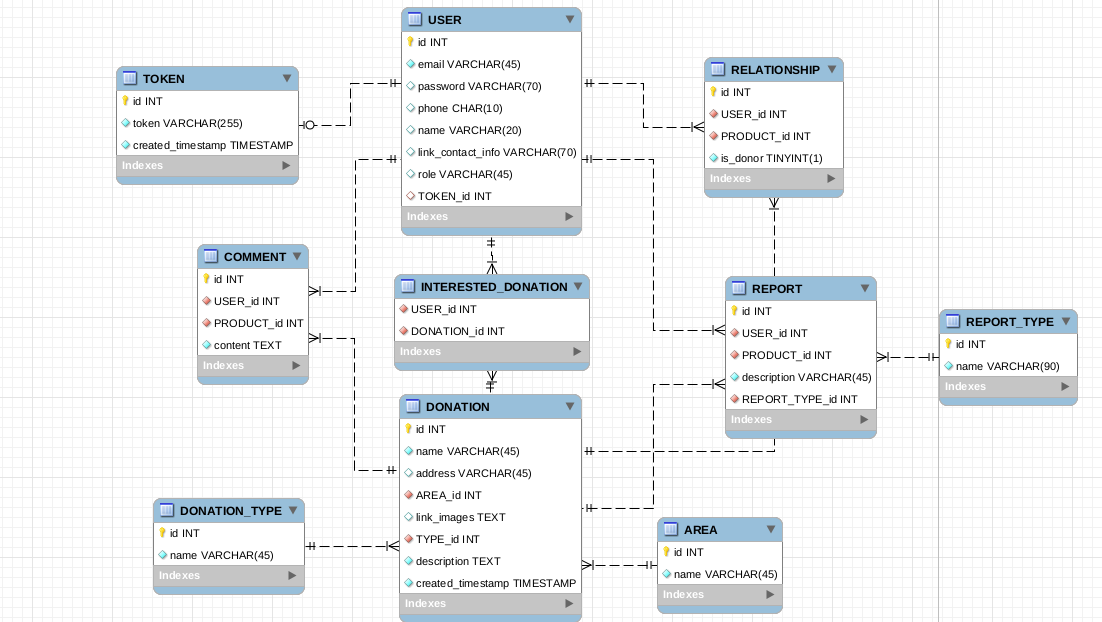
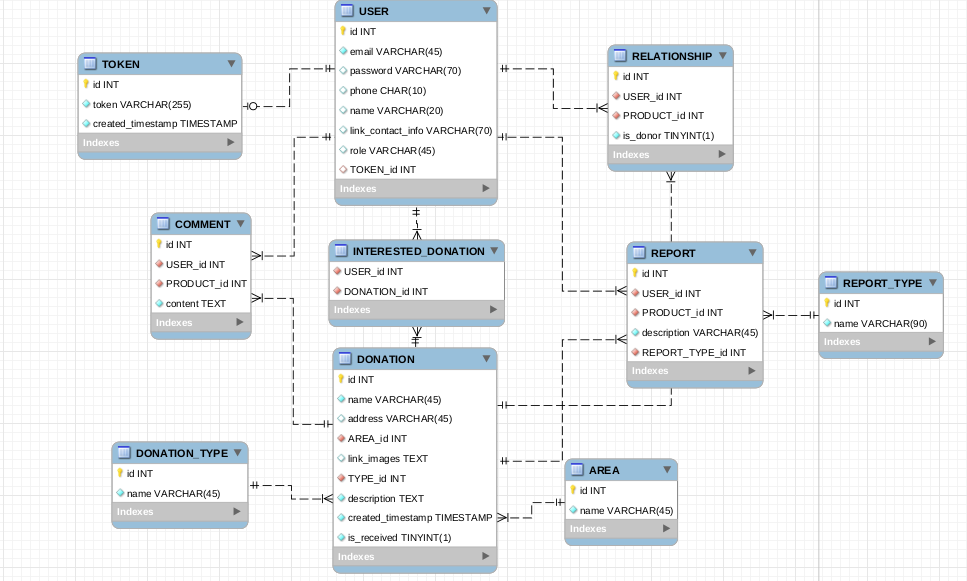
update DB

diff --git a/src/main/java/fpt/se1601/giveandget/reponsitory/entity/DonationEntity.java b/src/main/java/fpt/se1601/giveandget/reponsitory/entity/DonationEntity.java
@@ -1,6 +1,7 @@
 package fpt.se1601.giveandget.reponsitory.entity;
 
 import lombok.*;
+import org.hibernate.annotations.Type;
 
 import javax.persistence.*;
 import java.sql.Timestamp;
@@ -34,8 +35,11 @@ public class DonationEntity {
     private String description;
     @Column(name = "created_timestamp")
     private Timestamp timestamp;
-    @OneToMany( fetch = FetchType.LAZY)
+    @Column(name = "is_received")
+    @Type(type = "org.hibernate.type.NumericBooleanType")
+    private boolean is_received;
+    @OneToMany(fetch = FetchType.LAZY)
     private Set<RelationshipEntity> relationshipEntities;
-    @OneToMany( fetch = FetchType.LAZY)
+    @OneToMany(fetch = FetchType.LAZY)
     private Set<CommentEntity> commentEntities;
 }
